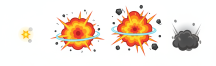
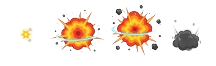
update image and check collide, comment code

diff --git a/Game.cpp b/Game.cpp
@@ -2,7 +2,7 @@
 #include "TextureManager.h"
 #include <iostream>
 #include <cmath>
-#include <random> // Thư viện cần thiết cho việc tạo số ngẫu nhiên
+#include <random>
 
 #ifndef PI
 #define PI 3.14159265
@@ -27,11 +27,11 @@ void Game::init(const char* title, int width, int height) {
     // Tạo đối tượng Map, nhưng chưa load một map cụ thể nào
     map = new Map(renderer, "image/tile.png");
 
-    // ĐIỀN DỮ LIỆU VÀO DANH SÁCH CÁC MAP CÓ SẴN
+    // DỮ LIỆU VÀO DANH SÁCH CÁC MAP CÓ SẴN
     availableMaps.push_back({
         "level1.map",           // Đường dẫn file map
-        {2, 9},                // Vị trí xuất phát của P1 (cột 2, hàng 11)
-        {21, 9}                // Vị trí xuất phát của P2 (cột 21, hàng 11)
+        {2, 9},                // Vị trí xuất phát của P1
+        {21, 9}                // Vị trí xuất phát của P2
     });
     availableMaps.push_back({
         "level2.map",
@@ -59,7 +59,7 @@ void Game::init(const char* title, int width, int height) {
     win1Texture = TextureManager::LoadTexture("image/win1.png", renderer);
     win2Texture = TextureManager::LoadTexture("image/win2.png", renderer);
 
-    playAgainButton = new Button("image/playagain.png", (800 - 250) / 2, 400, 250, 80, renderer);
+    playAgainButton = new Button("image/playagain.png", 275, 400, 250, 80, renderer);
     player1Button = new Button("image/1_player_button.png", 100, 350, 250, 80, renderer);
     player2Button = new Button("image/2_player_button.png", 450, 350, 250, 80, renderer);
     settingsButton = new Button("image/settings_button.png", 100, 450, 250, 80, renderer);
@@ -108,10 +108,13 @@ void Game::resetGame() {
 
 void Game::handleEvents() {
     SDL_Event event;
+    //lấy 1 sự kiện từ hàng đợi
     SDL_PollEvent(&event);
 
     if (event.type == SDL_QUIT) isRunning = false;
 
+
+    //click P sẽ pause game<chưa giao diện>
     if (event.type == SDL_KEYDOWN && event.key.keysym.sym == SDLK_p && !event.key.repeat) {
         if (gameState == GameState::PLAYING_1P || gameState == GameState::PLAYING_2P) {
             stateBeforePause = gameState;
@@ -122,7 +125,7 @@ void Game::handleEvents() {
             if(isMusicOn) Mix_ResumeMusic();
         }
     }
-
+    //xử lý các trạng thái của game
     switch (gameState) {
         case GameState::MAIN_MENU:
             if (player1Button->isClicked(&event)) startGame(GameState::PLAYING_1P);
@@ -152,18 +155,21 @@ void Game::handleEvents() {
 void Game::switchTurn() {
     currentPlayerTurn = (currentPlayerTurn == 1) ? 2 : 1;
     turnStartTime = SDL_GetTicks();
+    // thời gian thông báo là 2 giây
     turnNotificationEndTime = SDL_GetTicks() + 2000;
 }
 
 
 void Game::update() {
+    //check pause và không thực thi mấy cái dưới.
     if (gameState != GameState::PLAYING_1P && gameState != GameState::PLAYING_2P) return;
-
+    //cờ -> gọi đến switchTurn
     turnShouldEnd = false;
 
     player1->update(map);
     player2->update(map);
 
+    // chạy ra ngoài map là thua, nhưng bao map lại rồi nên bỏ cũng được
     if (player1->isOutOfBound(600)) {
         gameState = GameState::GAME_OVER; winner = 2; return;
     }
@@ -176,6 +182,7 @@ void Game::update() {
     if (remainingTime < 0) remainingTime = 0;
     createTextTexture(std::to_string(remainingTime));
 
+    //check va chạm giữa địa hình và đạn
     for (int i = 0; i < projectiles.size(); ++i) {
         projectiles[i]->update();
         SDL_Rect projRect = projectiles[i]->getRect();
@@ -190,7 +197,17 @@ void Game::update() {
         }
 
         Player* targetPlayer = (currentPlayerTurn == 1) ? player2 : player1;
-        SDL_Rect targetHitbox = { targetPlayer->getRect().x + 15, targetPlayer->getRect().y + 10, 34, 54 };
+        // Lấy hình chữ nhật gốc
+        SDL_Rect originalRect = targetPlayer->getRect();
+        // Tạo hitbox mới
+        SDL_Rect targetHitbox = {
+            originalRect.x + 16,
+            originalRect.y + 10,
+            32,
+            54
+        };
+
+        //check va chạm trừ hp
         if (SDL_HasIntersection(&projRect, &targetHitbox)) {
             targetPlayer->health--;
             projectileDestroyed = true;
@@ -204,6 +221,7 @@ void Game::update() {
         }
 
         if (projectileDestroyed) {
+            // tạo animation vụ nổ
             explosions.push_back(new Explosion(renderer, projRect.x, projRect.y));
             delete projectiles[i];
             projectiles.erase(projectiles.begin() + i);
@@ -212,6 +230,7 @@ void Game::update() {
     }
 
     for (int i = 0; i < explosions.size(); ++i) {
+        // xoá animation vụ nổ
         explosions[i]->update();
         if (explosions[i]->isFinished()) {
             delete explosions[i];
@@ -230,16 +249,19 @@ void Game::update() {
 }
 
 void Game::render() {
+    // Xóa mọi thứ đã được vẽ ở khung hình trước đó.
     SDL_RenderClear(renderer);
-
+    // vẽ background
     if (backgroundTexture) {
         SDL_RenderCopy(renderer, backgroundTexture, NULL, NULL);
     }
 
     if (gameState == GameState::MAIN_MENU || gameState == GameState::SETTINGS) {
         if(gameState == GameState::MAIN_MENU) {
-            player1Button->render(renderer); player2Button->render(renderer);
-            settingsButton->render(renderer); exitButton->render(renderer);
+            player1Button->render(renderer);
+            player2Button->render(renderer);
+            settingsButton->render(renderer);
+            exitButton->render(renderer);
         } else {
             musicToggleButton->render(renderer); backButton->render(renderer);
         }
@@ -265,21 +287,39 @@ void Game::render() {
         for (auto& p : projectiles) p->render(renderer);
         for (auto& e : explosions) e->render(renderer);
 
-        if (player1 && heartTexture) { for (int i = 0; i < player1->health; ++i) { SDL_Rect r = {10 + (i * 35), 10, 32, 32}; SDL_RenderCopy(renderer, heartTexture, NULL, &r); } }
-        if (player2 && heartTexture) { for (int i = 0; i < player2->health; ++i) { SDL_Rect r = {790 - 32 - (i * 35), 10, 32, 32}; SDL_RenderCopy(renderer, heartTexture, NULL, &r); } }
-        if (timerTexture) { SDL_RenderCopy(renderer, timerTexture, NULL, &timerRect); }
-        if (SDL_GetTicks() < turnNotificationEndTime) { SDL_Rect r = {(800 - 300) / 2, (600 - 100) / 2, 300, 100}; SDL_RenderCopy(renderer, (currentPlayerTurn == 1) ? turn1Texture : turn2Texture, NULL, &r); }
+        if (player1 && heartTexture) {
+            for (int i = 0; i < player1->health; ++i) {
+                SDL_Rect r = {10 + (i * 35), 10, 32, 32};
+                SDL_RenderCopy(renderer, heartTexture, NULL, &r);
+            }
+        }
+        if (player2 && heartTexture) {
+            for (int i = 0; i < player2->health; ++i) {
+                SDL_Rect r = {790 - 32 - (i * 35), 10, 32, 32};
+                SDL_RenderCopy(renderer, heartTexture, NULL, &r);
+            }
+        }
+        if (timerTexture) {
+            SDL_RenderCopy(renderer, timerTexture, NULL, &timerRect);
+        }
+        if (SDL_GetTicks() < turnNotificationEndTime) {
+            SDL_Rect r = {(800 - 300) / 2, (600 - 100) / 2, 300, 100};
+            SDL_RenderCopy(renderer, (currentPlayerTurn == 1) ? turn1Texture : turn2Texture, NULL, &r);
+        }
 
         Player* currentPlayer = (currentPlayerTurn == 1) ? player1 : player2;
         if (currentPlayer) {
+            // Vẽ thanh lực (Power Bar)
+            // Vẽ hình chữ nhật nền màu xám trước.
             SDL_Rect powerBarBg = { currentPlayer->getRect().x, currentPlayer->getRect().y - 20, 100, 10 };
             SDL_SetRenderDrawColor(renderer, 50, 50, 50, 255);
             SDL_RenderFillRect(renderer, &powerBarBg);
+            // - Tính toán phần trăm lực và vẽ hình chữ nhật lực màu vàng đè lên trên.
             float powerPercent = currentPlayer->getPower() / MAX_POWER;
             SDL_Rect powerBarFg = { powerBarBg.x, powerBarBg.y, (int)(100 * powerPercent), 10 };
             SDL_SetRenderDrawColor(renderer, 255, 200, 0, 255);
             SDL_RenderFillRect(renderer, &powerBarFg);
-
+            // Vẽ đường ngắm (Aiming Line)
             float angle = currentPlayer->getAngle();
             bool facingRight = currentPlayer->isFacingRight();
             float shootingAngle = facingRight ? angle : 180.0f - angle;
@@ -333,6 +373,7 @@ void Game::clean() {
     SDL_Quit();
 }
 
+// vẽ chữ số đếm ngược lên ảnh
 void Game::createTextTexture(const std::string& text) {
     if (timerTexture) SDL_DestroyTexture(timerTexture);
     SDL_Color textColor = { 255, 255, 255, 255 };

diff --git a/Player.cpp b/Player.cpp
@@ -3,7 +3,7 @@
 #include <iostream>
 
 const float PLAYER_GRAVITY = 0.5f;
-const float PLAYER_MOVE_SPEED = 3.0f; // Tăng tốc độ một chút cho cảm giác tốt hơn
+const float PLAYER_MOVE_SPEED = 3.0f; // tốc độ di chuyển
 
 Player::Player(const std::string& texturePath, int x, int y, SDL_Renderer* renderer) {
     texture = TextureManager::LoadTexture(texturePath, renderer);
@@ -60,7 +60,7 @@ void Player::handleEvent(SDL_Event& e, std::vector<Projectile*>& projectiles, SD
     }
 }
 
-// HÀM UPDATE ĐƯỢC LÀM LẠI HOÀN TOÀN ĐỂ XỬ LÝ VA CHẠM
+// HÀM UPDATE ĐỂ XỬ LÝ VA CHẠM
 void Player::update(Map* map) {
     if (isCharging) {
         power += 5.0f;
@@ -113,7 +113,7 @@ void Player::update(Map* map) {
             onGround = false;
         }
     }
-    // Nếu đang bay lên
+    // Nếu đang bay lên(sau này phát triển thêm máy bay dịch chuyển vị trí :))
     else if (y_vel < 0) {
         if (map->getTileTypeFromPixelCoords(playerHitbox.x, playerHitbox.y) != 0 ||
             map->getTileTypeFromPixelCoords(playerHitbox.x + playerHitbox.w, playerHitbox.y) != 0)

diff --git a/Game.h b/Game.h
@@ -68,7 +68,6 @@ private:
     SDL_Texture* turn2Texture = nullptr;
     SDL_Texture* win1Texture = nullptr;
     SDL_Texture* win2Texture = nullptr;
-    Map* map = nullptr;
 
     Button* playAgainButton = nullptr;
     Button* player1Button = nullptr;
@@ -78,11 +77,13 @@ private:
     Button* musicToggleButton = nullptr;
     Button* backButton = nullptr;
 
-    bool turnShouldEnd = false;
+    Map* map = nullptr;
     Player* player1 = nullptr;
     Player* player2 = nullptr;
     std::vector<Projectile*> projectiles;
     std::vector<Explosion*> explosions;
+
+    bool turnShouldEnd = false;
     int currentPlayerTurn = 1;
     Uint32 turnStartTime = 0;
     const int TURN_DURATION = 20000;

diff --git a/main.cpp b/main.cpp
@@ -6,7 +6,9 @@ int main(int argc, char *argv[]) {
     const int FPS = 60;
     const int frameDelay = 1000 / FPS;
 
+    //đánh dấu thời gian bắt đầu khung hình
     Uint32 frameStart;
+    //thời gian thực tế xử lí 1 khung hình
     int frameTime;
 
     game = new Game();
@@ -14,9 +16,11 @@ int main(int argc, char *argv[]) {
 
     while (game->running()) {
         frameStart = SDL_GetTicks();
-
+        //lắng nghe sự kiện
         game->handleEvents();
+        //cập nhật các sự kiện
         game->update();
+        //render màn theo sự kiện
         game->render();
 
         frameTime = SDL_GetTicks() - frameStart;

diff --git a/TextureManager.cpp b/TextureManager.cpp
@@ -8,7 +8,7 @@ SDL_Texture* TextureManager::LoadTexture(const std::string& fileName, SDL_Render
         return nullptr;
     }
 
-    // === THÊM MỚI: XÓA NỀN TRẮNG ===
+    // === XÓA NỀN TRẮNG ===
     // Thiết lập màu trắng (R=255, G=255, B=255) làm màu trong suốt
     SDL_SetColorKey(tempSurface, SDL_TRUE, SDL_MapRGB(tempSurface->format, 255, 255, 255));
     // ===================================

diff --git a/Player.h b/Player.h
@@ -15,7 +15,7 @@ public:
     void render(SDL_Renderer* renderer);
     SDL_Rect getRect();
 
-    // <<-- HÀM MỚI ĐỂ KIỂM TRA RƠI RA NGOÀI
+    //  KIỂM TRA RƠI RA NGOÀI
     bool isOutOfBound(int screenHeight) const;
 
     float getPower() const { return power; }
